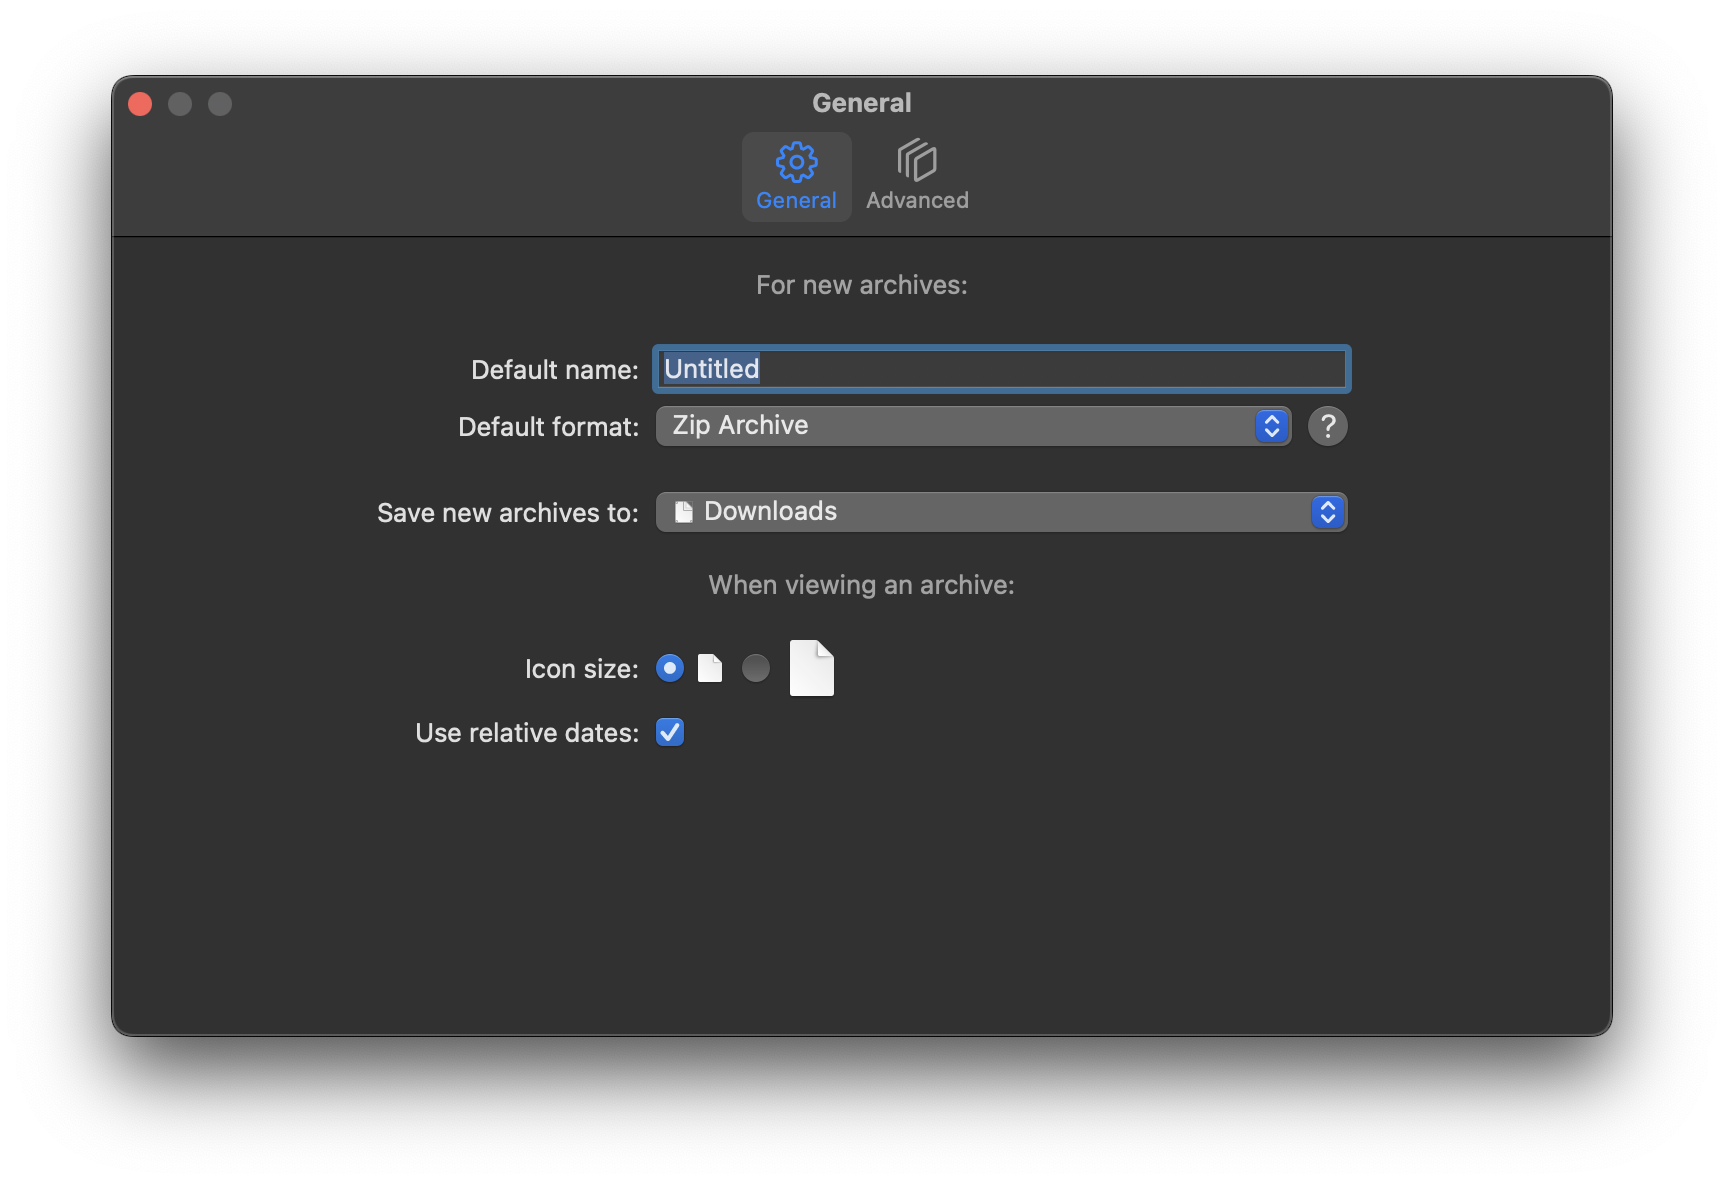
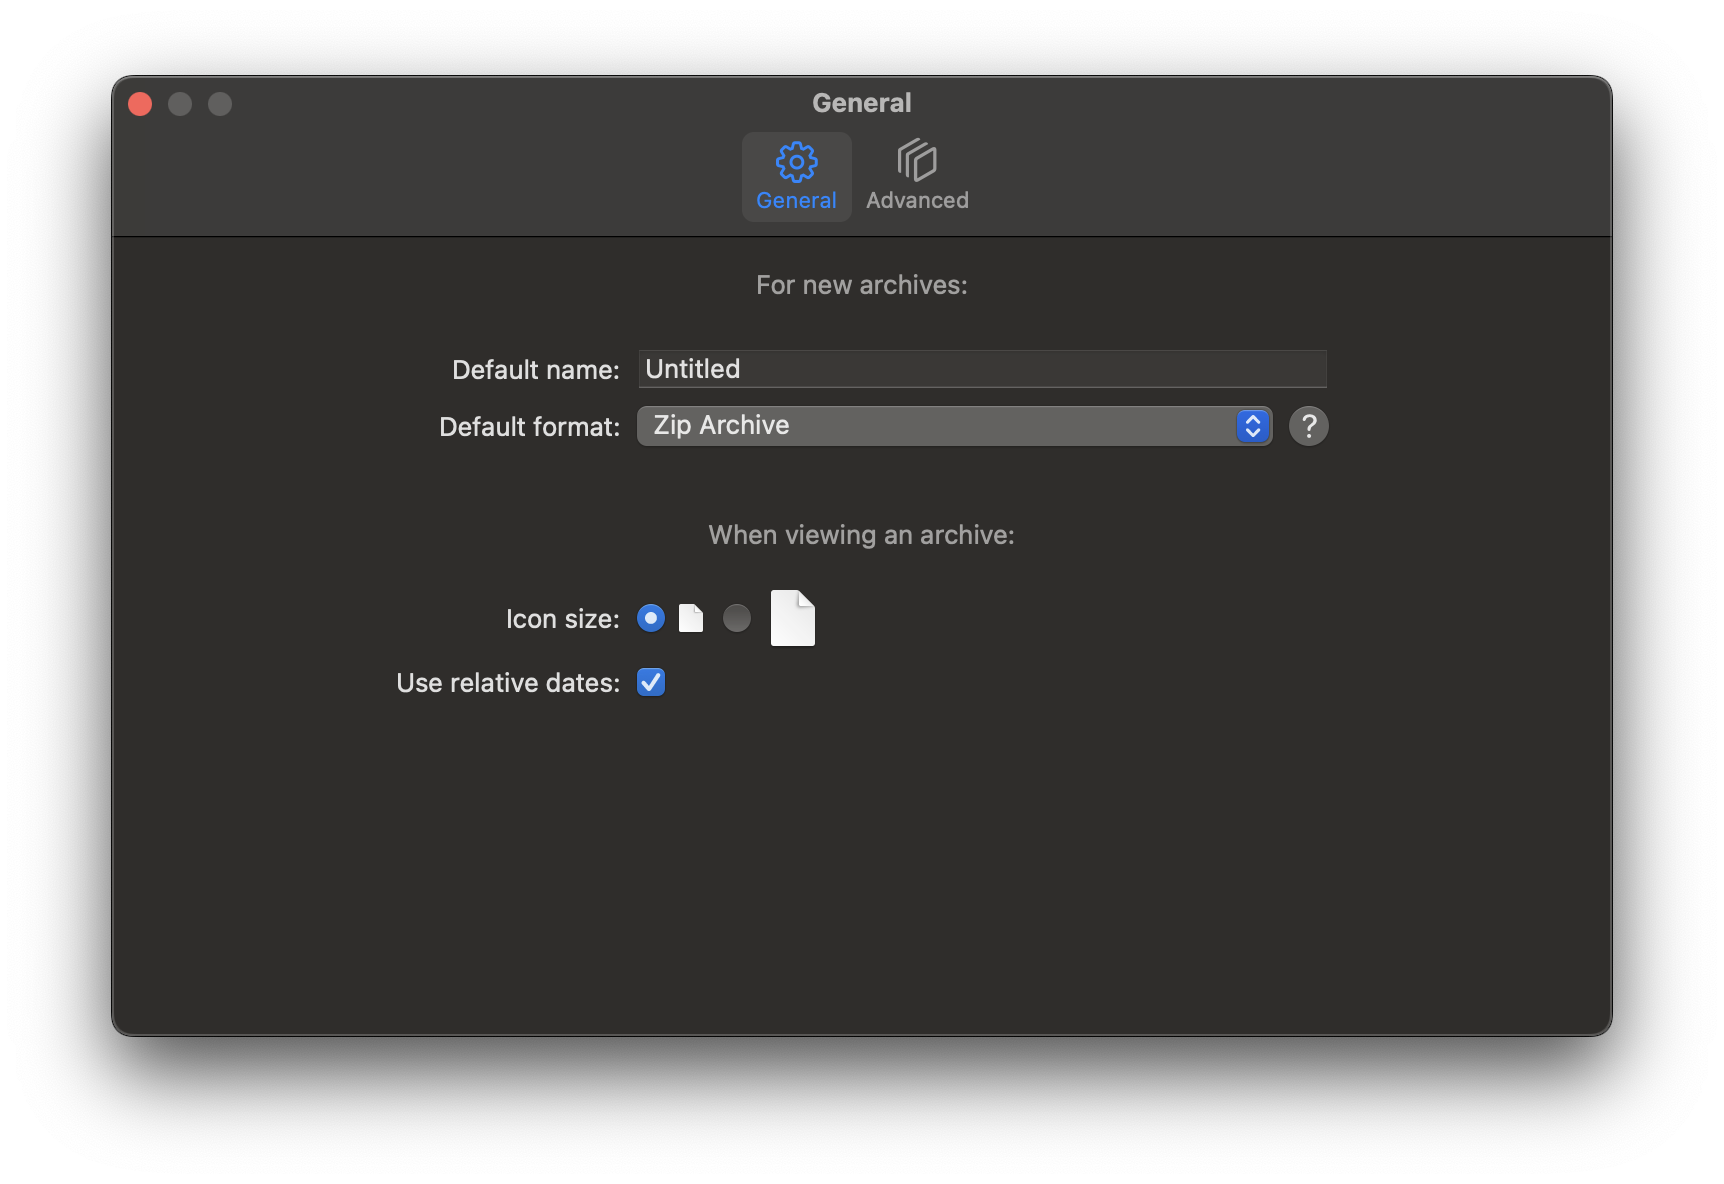
Update help to show the new Settings->General view

Changed region(s): [[0.2152, 0.4062, 0.7993, 0.625], [0.2459, 0.2812, 0.7993, 0.375]]

diff --git a/ArkyveHelp/Resources/en.lproj/settings.html b/ArkyveHelp/Resources/en.lproj/settings.html
@@ -18,7 +18,7 @@
         <a name="general"></a>
         <span class="header">General Settings</span>
 
-        <p>The first settings in the General tab relate to new archives you create with Arkyve - what they should be named, which type of archive they should be, and where they will be saved by default.</p>
+        <p>The first settings in the General tab relate to new archives you create with Arkyve - what they should be named and which type of archive they should be.</p>
 
         <p>The rest of the settings on this tab relate to how an archive's items should be displayed.</p>
 
